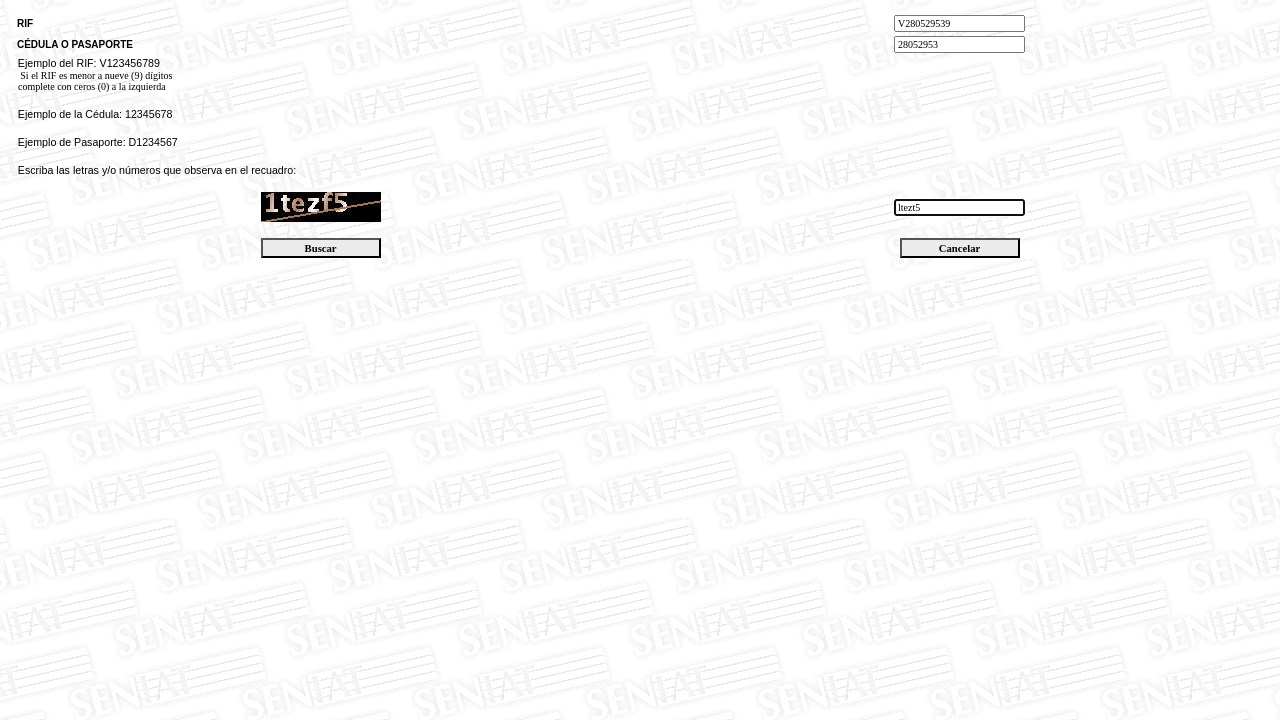
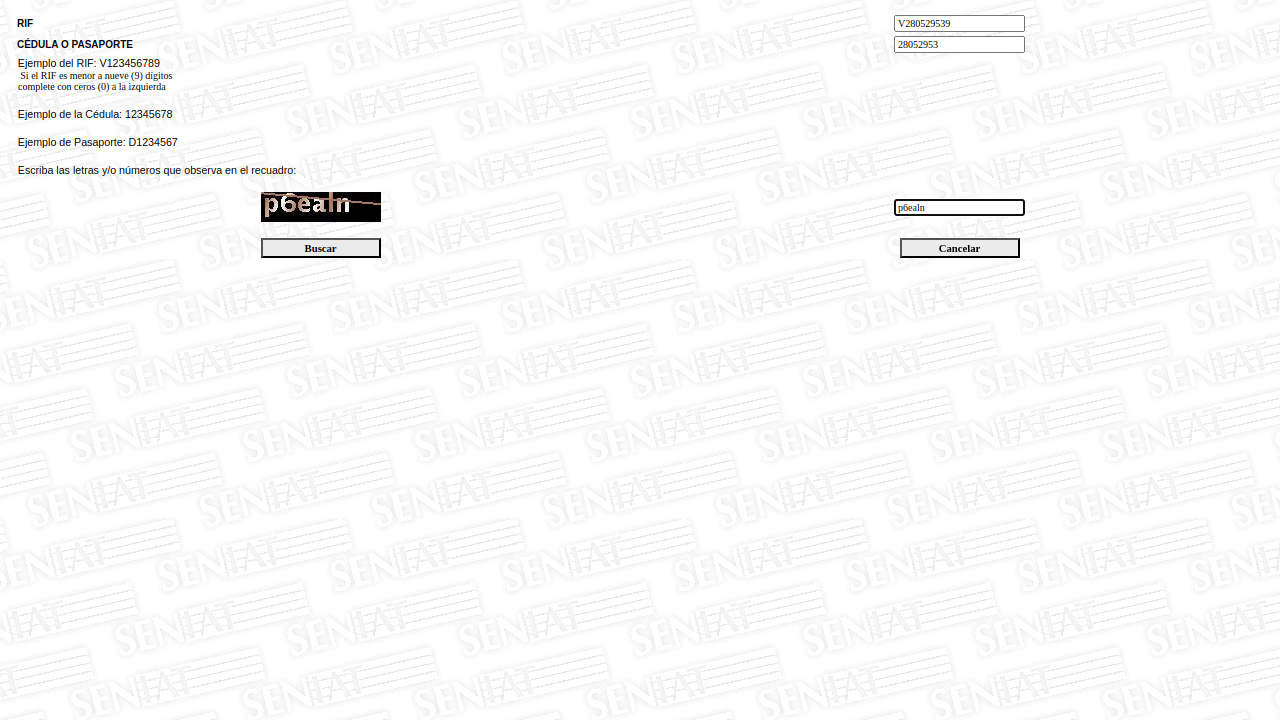
Image preprocessing

diff --git a/prueba.py b/prueba.py
@@ -1,48 +1,111 @@
-def run(playwright: Playwright) -> None:
-    # Go to page
-    browser = playwright.chromium.launch(headless=False)
+# def run(playwright: Playwright) -> None:
+#     # Go to page
+#     browser = playwright.chromium.launch(headless=False)
 
-    if os.path.exists("utils/cookies.json"):
-        context.add_cookies(json.loads(Path("utils/cookies.json").read_text()))
-    else:
-        context = browser.new_context()
+#     if os.path.exists("utils/cookies.json"):
+#         context.add_cookies(json.loads(Path("utils/cookies.json").read_text()))
+#     else:
+#         context = browser.new_context()
 
-    page = context.new_page()
-    page.goto(base_url + "BuscaRif.jsp")
+#     page = context.new_page()
+#     page.goto(base_url + "BuscaRif.jsp")
 
-    # Fill Form
-    page.get_by_role("textbox", name="Ingrese su número de Rif, seg").fill("V280529539")
-    page.get_by_role("textbox", name="Ingrese su número de Cédula o").fill("28052953")
+#     # Fill Form
+#     page.get_by_role("textbox", name="Ingrese su número de Rif, seg").fill("V280529539")
+#     page.get_by_role("textbox", name="Ingrese su número de Cédula o").fill("28052953")
 
-    # Download Image
-    url = page.get_by_role("img").get_attribute('src').screenshot({ path: 'captcha.jpg' })
+#     # Download Image
+#     url = page.get_by_role("img").get_attribute('src').screenshot({ path: 'captcha.jpg' })
 
 
-    # url = base_url + url
-    # file = requests.get(url)
-    # with open('tmp/captcha.jpg', 'wb') as f:
-    #     f.write(file.content)
-    # page.screenshot(path="tmp/seniat.png")
+#     # url = base_url + url
+#     # file = requests.get(url)
+#     # with open('tmp/captcha.jpg', 'wb') as f:
+#     #     f.write(file.content)
+#     # page.screenshot(path="tmp/seniat.png")
 
-    # Modify Image
-    image = cv2.imread("tmp/captcha.jpg", 0)
-    image = cv2.blur(image, (2, 3))
-    ret, image = cv2.threshold(image, 128, 200, cv2.THRESH_BINARY)
-    cv2.imwrite("tmp/captcha-fixed.jpg", image)
+#     # Modify Image
+#     image = cv2.imread("tmp/captcha.jpg", 0)
+#     image = cv2.blur(image, (2, 3))
+#     ret, image = cv2.threshold(image, 128, 200, cv2.THRESH_BINARY)
+#     cv2.imwrite("tmp/captcha-fixed.jpg", image)
 
-    # Read Image
-    reader = easyocr.Reader(['en'])
-    result = reader.readtext('tmp/captcha-fixed.jpg', detail=0)
-    print(result[0])
+#     # Read Image
+#     reader = easyocr.Reader(['en'])
+#     result = reader.readtext('tmp/captcha-fixed.jpg', detail=0)
+#     print(result[0])
 
-    # page.locator("#codigo").fill(result)
-    # page.screenshot(path="tmp/seniat.png")
-    # # page.once("dialog", lambda dialog: dialog.dismiss())
-    # page.get_by_role("button", name="Buscar").click()
-    # page.pause()
+#     # page.locator("#codigo").fill(result)
+#     # page.screenshot(path="tmp/seniat.png")
+#     # # page.once("dialog", lambda dialog: dialog.dismiss())
+#     # page.get_by_role("button", name="Buscar").click()
+#     # page.pause()
 
-    context.close()
-    browser.close()
+#     context.close()
+#     browser.close()
 
-with sync_playwright() as playwright:
-    run(playwright)
+# with sync_playwright() as playwright:
+#     run(playwright)
+
+
+import re
+from playwright.sync_api import Playwright, sync_playwright, expect
+import easyocr
+import requests
+import cv2
+import pytesseract
+import numpy as np
+
+def show(image):
+    cv2.imshow("1", np.array(image))
+    cv2.waitKey(0)
+
+# # Modify Image
+# imagen = cv2.imread("tmp/captcha.jpg", 0)
+
+# # # Leemos la imagen en modo escala de grises
+# # imagen = cv2.imread('imagen.jpg', cv2.IMREAD_GRAYSCALE)
+
+# # Normalizamos los valores de los píxeles
+# # imagen = cv2.normalize(imagen, None, alpha=0, beta=255, norm_type=cv2.NORM_MINMAX)
+
+# # Aplicamos un desenfoque no nítido para mejorar la nitidez
+# # imagen = cv2.GaussianBlur(imagen, (7, 3), 1)
+
+# # Ajustamos el contraste
+# # imagen = cv2.addWeighted(imagen, 1.0, imagen, 0.0, 0)
+
+# # Calculamos el umbral para la binarización
+# umbral = 0.5 * 255
+
+# # Convertimos la imagen a binaria
+# imagen = cv2.threshold(imagen, umbral, 255, cv2.THRESH_BINARY)[1]
+
+# # Aplicamos un desenfoque adaptativo
+# imagen = cv2.medianBlur(imagen, 5)
+
+# # Reducimos el número de colores a 8
+# imagen = cv2.cvtColor(imagen, cv2.COLOR_GRAY2RGB)
+# # imagen = cv2.reduceColors(imagen, 8)
+
+
+# cv2.imwrite("tmp/captcha-fixed.jpg", imagen)
+
+# Modify Image
+image = cv2.imread("tmp/captcha.jpg", 0)
+# image = cv2.normalize(image, None, alpha=0, beta=255, norm_type=cv2.NORM_MINMAX)
+image = cv2.normalize(image, None, alpha=0, beta=255, norm_type=cv2.NORM_MINMAX)
+# image = cv2.blur(image, (1, 3))
+# image = cv2.medianBlur(image, 3)
+image = cv2.GaussianBlur(image,(1,3),0)
+umbral = 0.5 * 255
+ret, image = cv2.threshold(image, umbral, 255, cv2.THRESH_BINARY)
+image = cv2.dilate(image, np.ones((2, 2), np.uint8))
+image = cv2.bitwise_not(image)
+# # image = cv2.erode(image, np.ones((2, 2), np.uint8))
+cv2.imwrite("tmp/captcha-fixed.jpg", image)
+
+# Read Image
+reader = easyocr.Reader(['en'])
+result = reader.readtext('tmp/captcha-fixed.jpg', detail=0)
+print(result[0])

diff --git a/test_2.py b/test_2.py
@@ -1,0 +1,75 @@
+import re
+from playwright.sync_api import Playwright, sync_playwright, expect
+import easyocr
+import requests
+import cv2
+import pytesseract
+import numpy as np
+import os
+import json
+from pathlib import Path
+
+file_path = "cookies.json"
+base_url = "http://contribuyente.seniat.gob.ve/BuscaRif/"
+
+def run(playwright: Playwright) -> None:
+    # Go to page
+    browser = playwright.chromium.launch(headless=True)
+    context = browser.new_context()
+
+    # context = browser.new_context()
+    # context.set_default_timeout(15000)
+    # cookies = context.cookies()
+    # Path("cookies.json").write_text(json.dumps(cookies))
+
+    if os.path.exists(file_path):
+        print("hola")
+        context.add_cookies(json.loads(Path("cookies.json").read_text()))
+        print(type(json.loads(Path("cookies.json").read_text())))
+    else:
+        context.set_default_timeout(15000)
+
+    page = context.new_page()
+    page.goto(base_url + "Captcha.jpg")
+
+    cookies = context.cookies()
+    Path("cookies.json").write_text(json.dumps(cookies))
+    page.screenshot(path="cookies.png")
+
+    # # Fill Form
+    # page.get_by_role("textbox", name="Ingrese su número de Rif, seg").fill("V280529539")
+    # page.get_by_role("textbox", name="Ingrese su número de Cédula o").fill("28052953")
+
+    # # Download Image
+    # page.get_by_role("img").screenshot(path="tmp/captcha.jpg")
+
+    # # Modify Image
+    # image = cv2.imread("tmp/captcha.jpg", 0)
+    # image = cv2.normalize(image, None, alpha=0, beta=255, norm_type=cv2.NORM_MINMAX)
+    # image = cv2.GaussianBlur(image,(1,3),0)
+    # umbral = 0.5 * 255
+    # ret, image = cv2.threshold(image, umbral, 255, cv2.THRESH_BINARY)
+    # image = cv2.dilate(image, np.ones((2, 2), np.uint8))
+    # image = cv2.bitwise_not(image)
+    # cv2.imwrite("tmp/captcha-fixed.jpg", image)
+
+    # # Read Image
+    # reader = easyocr.Reader(['en'])
+    # result = reader.readtext('tmp/captcha-fixed.jpg', detail=0)
+
+    # # Fill Captcha
+    # page.locator("#codigo").fill(result[0])
+
+    # # Screenshot of the page
+    # page.screenshot(path="tmp/seniat.png")
+
+    # # # page.once("dialog", lambda dialog: dialog.dismiss())
+    # # page.get_by_role("button", name="Buscar").click()
+    # # page.pause()
+
+    context.close()
+    browser.close()
+
+
+with sync_playwright() as playwright:
+    run(playwright)

diff --git a/gibberish.py b/gibberish.py
@@ -158,3 +158,66 @@ def run(playwright: Playwright) -> None:
 
 with sync_playwright() as playwright:
     run(playwright)
+
+
+
+import re
+from playwright.sync_api import Playwright, sync_playwright, expect
+import easyocr
+import requests
+import cv2
+import pytesseract
+import numpy as np
+
+base_url = "http://contribuyente.seniat.gob.ve/BuscaRif/"
+
+def run(playwright: Playwright) -> None:
+    # Go to page
+    browser = playwright.chromium.launch(headless=False)
+
+    context = browser.new_context()
+    context.set_default_timeout(15000)
+    cookies = context.cookies()
+
+    page = context.new_page()
+    page.goto(base_url + "BuscaRif.jsp")
+
+    # Fill Form
+    page.get_by_role("textbox", name="Ingrese su número de Rif, seg").fill("V280529539")
+    page.get_by_role("textbox", name="Ingrese su número de Cédula o").fill("28052953")
+
+    # Download Image
+    page.get_by_role("img").screenshot(path="tmp/captcha.jpg")
+
+    # Modify Image
+    image = cv2.imread("tmp/captcha.jpg", 0)
+    image = cv2.normalize(image, None, alpha=0, beta=255, norm_type=cv2.NORM_MINMAX)
+    image = cv2.blur(image, (1, 3))
+    # image = cv2.medianBlur(image, 5)
+    umbral = 0.5 * 255
+    ret, image = cv2.threshold(image, umbral, 255, cv2.THRESH_BINARY)
+    image = cv2.dilate(image, np.ones((2, 2), np.uint8))
+    image = cv2.bitwise_not(image)
+    cv2.imwrite("tmp/captcha-fixed.jpg", image)
+
+    # Read Image
+    reader = easyocr.Reader(['en'])
+    result = reader.readtext('tmp/captcha-fixed.jpg', detail=0)
+
+    # Fill Captcha
+    page.locator("#codigo").fill(result[0])
+
+    # Screenshot of the page
+    page.screenshot(path="tmp/seniat.png")
+
+    # # page.once("dialog", lambda dialog: dialog.dismiss())
+    # page.get_by_role("button", name="Buscar").click()
+    # page.pause()
+
+    context.close()
+    browser.close()
+
+
+with sync_playwright() as playwright:
+    run(playwright)
+

diff --git a/test_main.py b/test_main.py
@@ -3,12 +3,14 @@ from playwright.sync_api import Playwright, sync_playwright, expect
 import easyocr
 import requests
 import cv2
+import pytesseract
+import numpy as np
 
 base_url = "http://contribuyente.seniat.gob.ve/BuscaRif/"
 
 def run(playwright: Playwright) -> None:
     # Go to page
-    browser = playwright.chromium.launch(headless=True)
+    browser = playwright.chromium.launch(headless=False)
 
     context = browser.new_context()
     context.set_default_timeout(15000)
@@ -26,8 +28,12 @@ def run(playwright: Playwright) -> None:
 
     # Modify Image
     image = cv2.imread("tmp/captcha.jpg", 0)
-    image = cv2.blur(image, (2, 3))
-    ret, image = cv2.threshold(image, 128, 200, cv2.THRESH_BINARY)
+    image = cv2.normalize(image, None, alpha=0, beta=255, norm_type=cv2.NORM_MINMAX)
+    image = cv2.GaussianBlur(image,(1,3),0)
+    umbral = 0.5 * 255
+    ret, image = cv2.threshold(image, umbral, 255, cv2.THRESH_BINARY)
+    image = cv2.dilate(image, np.ones((2, 2), np.uint8))
+    image = cv2.bitwise_not(image)
     cv2.imwrite("tmp/captcha-fixed.jpg", image)
 
     # Read Image
